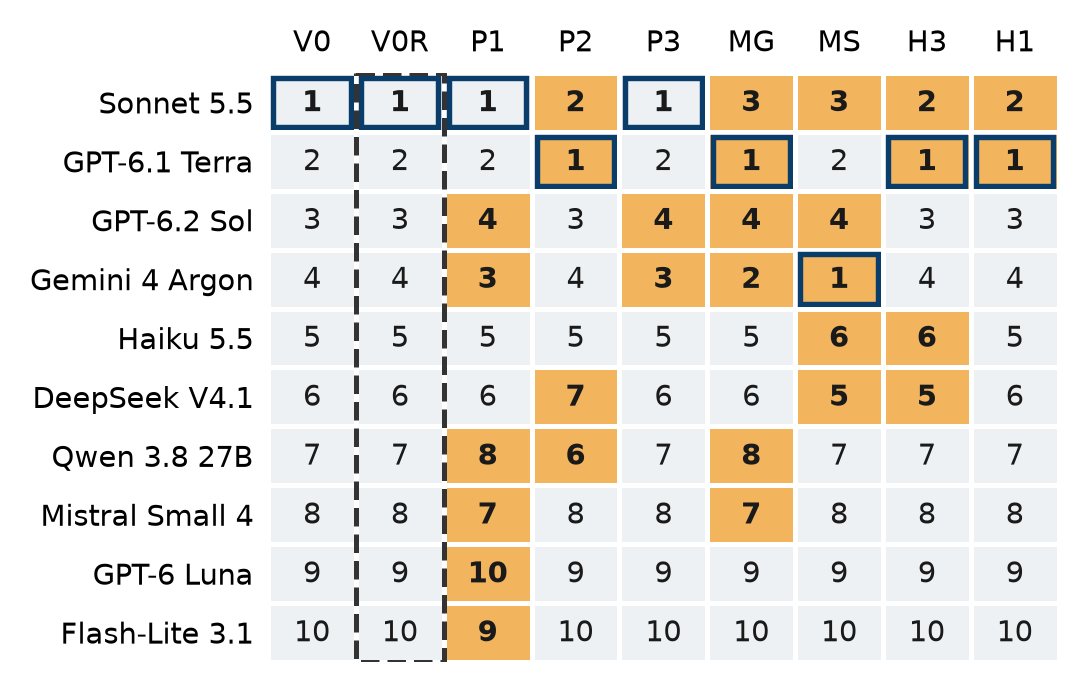
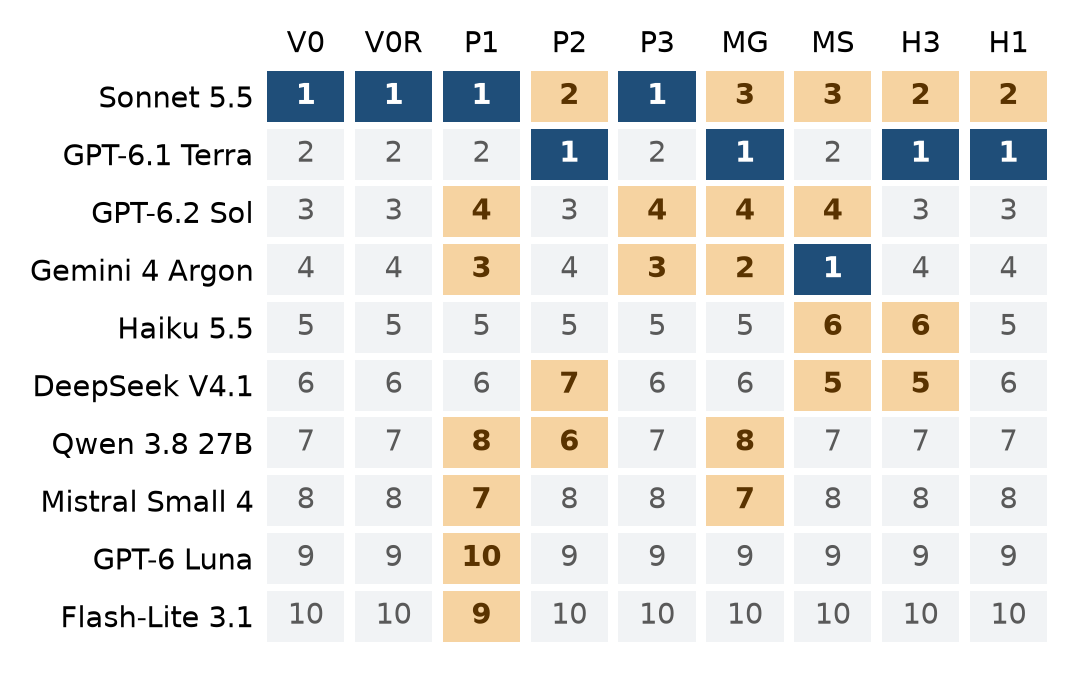
fix(figures): clean up the rank grid
Drop the dashed placebo outline and the first-place boxes, which
overlapped cell edges in print. First place is now a dark cell and
changed ranks a soft orange, with even gaps between cells.

diff --git a/src/semdrift/figures.py b/src/semdrift/figures.py
@@ -129,52 +129,45 @@ GRID_NAME = {
 
 
 def rank_grid_figure(accuracy: dict[str, dict[str, float]]) -> None:
-    """Rank of each model under each catalog; cells whose rank differs from V0 are highlighted."""
+    """Rank of each model under each catalog: first place dark, changed ranks shaded."""
     ranks = {}
     for catalog in CATALOG_ORDER:
         ordered = sorted(accuracy, key=lambda m: (-accuracy[m][catalog], SHORT[m]))
         ranks[catalog] = {model: i + 1 for i, model in enumerate(ordered)}
     models = sorted(accuracy, key=lambda m: ranks["V0"][m])
-    fig, ax = plt.subplots(figsize=(3.4, 2.55))
+    fig, ax = plt.subplots(figsize=(3.4, 2.5))
+    gap = 0.06
     for row, model in enumerate(models):
         for col, catalog in enumerate(CATALOG_ORDER):
             rank = ranks[catalog][model]
             moved = rank != ranks["V0"][model]
-            face = "#F2B45C" if moved else "#EEF1F4"
-            ax.add_patch(
-                Rectangle((col, row), 1, 1, facecolor=face, edgecolor="white", linewidth=1.2)
-            )
             if rank == 1:
-                ax.add_patch(
-                    Rectangle(
-                        (col + 0.06, row + 0.08),
-                        0.88,
-                        0.84,
-                        fill=False,
-                        edgecolor="#0B3D6B",
-                        linewidth=1.3,
-                    )
+                face, ink, weight = "#1F4E79", "white", "bold"
+            elif moved:
+                face, ink, weight = "#F6D3A1", "#5A3300", "bold"
+            else:
+                face, ink, weight = "#F1F3F5", "0.35", "normal"
+            ax.add_patch(
+                Rectangle(
+                    (col + gap, row + gap), 1 - 2 * gap, 1 - 2 * gap, facecolor=face, linewidth=0
                 )
+            )
             ax.text(
                 col + 0.5,
-                row + 0.52,
+                row + 0.5,
                 str(rank),
                 ha="center",
                 va="center",
                 fontsize=7,
-                color="0.1",
-                fontweight="bold" if moved or rank == 1 else "normal",
+                color=ink,
+                fontweight=weight,
             )
-    ax.add_patch(  # the placebo column
-        Rectangle(
-            (1, 0), 1, len(models), fill=False, edgecolor="0.2", linewidth=1.2, linestyle="--"
-        )
-    )
     ax.set_xlim(0, len(CATALOG_ORDER))
     ax.set_ylim(len(models), 0)
     ax.set_xticks([i + 0.5 for i in range(len(CATALOG_ORDER))], CATALOG_ORDER, fontsize=7)
+    ax.get_xticklabels()[1].set_fontweight("bold")  # the placebo copy
     ax.xaxis.tick_top()
-    ax.tick_params(length=0)
+    ax.tick_params(length=0, pad=2)
     ax.set_yticks([i + 0.5 for i in range(len(models))], [GRID_NAME[m] for m in models], fontsize=7)
     for spine in ax.spines.values():
         spine.set_visible(False)
